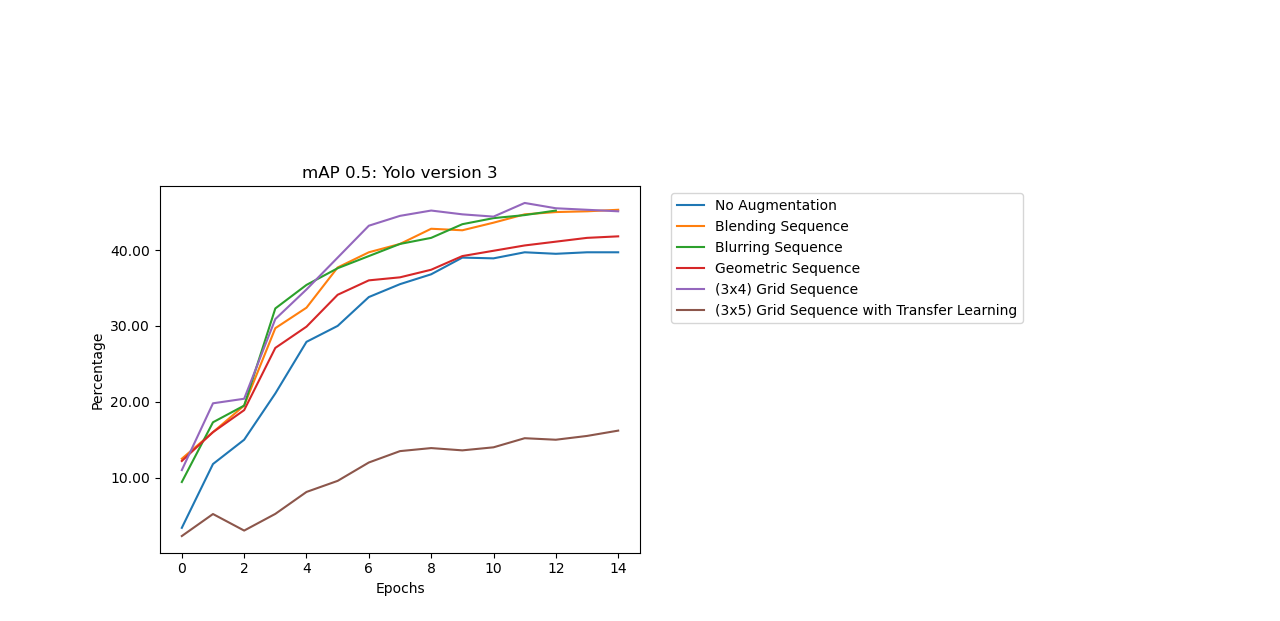
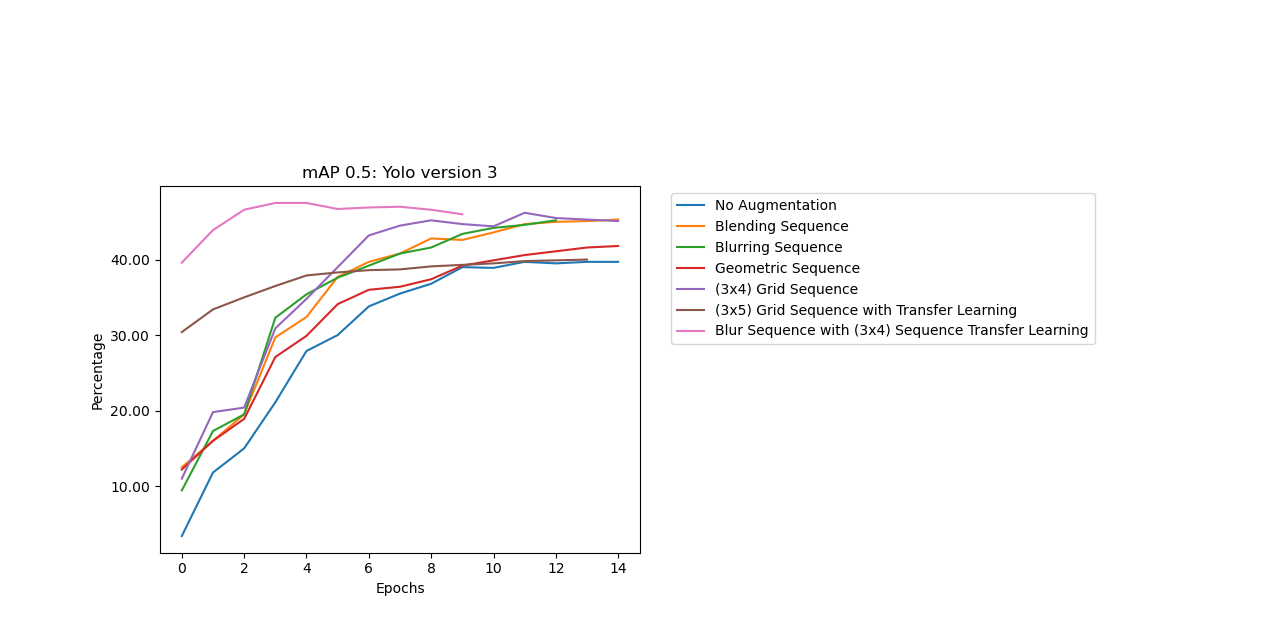
yolov3 best updated, csv updated

diff --git a/results/yolov3_size1056_results.py b/results/yolov3_size1056_results.py
@@ -7,12 +7,12 @@ df=pd.read_csv(path)
 
 
 
-map_05_indices=[10,25,40,55,70,100] #with transfer learning takes longer to converge.
-f1_indices=[11,26,41,56,71,101] #86
-total_loss=[5,20,35,50,65,95] #80
+map_05_indices=[10,25,40,55,70,100,145] #with transfer learning takes longer to converge.
+f1_indices=[11,26,41,56,71,101,146] #86
+total_loss=[5,20,35,50,65,95,140] #80
 
 
-names=["No Augmentation","Blending Sequence","Blurring Sequence","Geometric Sequence","(3x4) Grid Sequence","(3x5) Grid Sequence with Transfer Learning"]
+names=["No Augmentation","Blending Sequence","Blurring Sequence","Geometric Sequence","(3x4) Grid Sequence","(3x5) Grid Sequence with Transfer Learning","Blur Sequence with (3x4) Sequence Transfer Learning"]
 
 
 if __name__=="__main__":

diff --git a/results/plot.py b/results/plot.py
@@ -1,7 +1,7 @@
 import matplotlib.pyplot as plt
 import numpy as np
 from matplotlib.ticker import FormatStrFormatter
-import pandas as pd
+import pandas as pdd
 import sys
 
 
